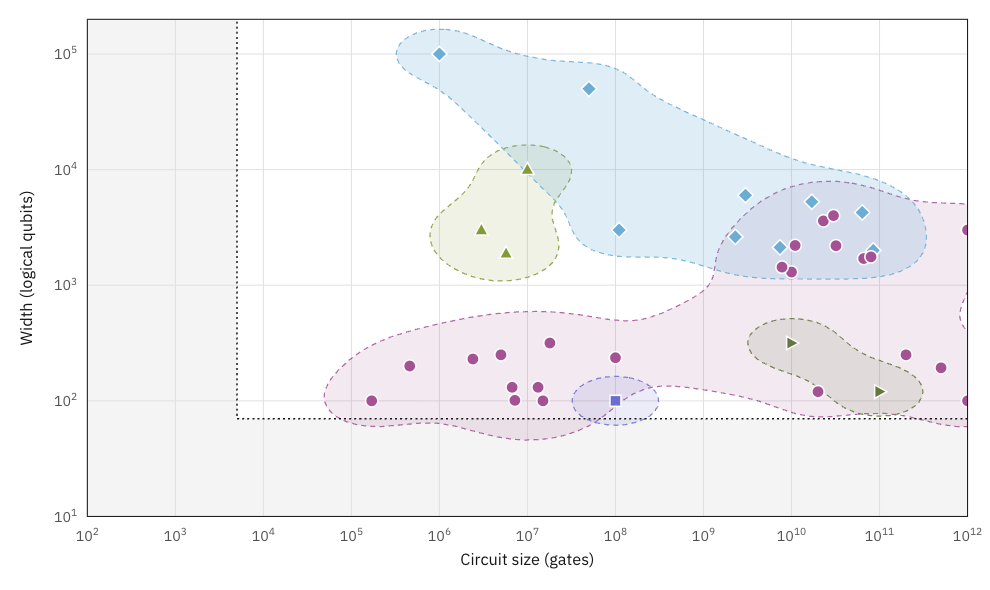
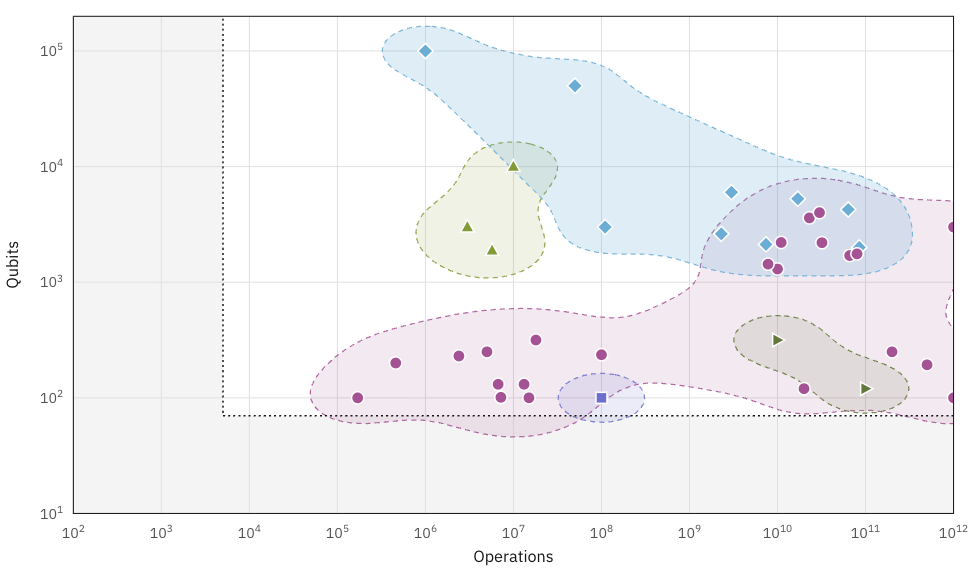
Label chart axes Qubits and Operations, update home preview

diff --git a/src/app/resource-estimates/AlgorithmSpace.tsx b/src/app/resource-estimates/AlgorithmSpace.tsx
@@ -201,7 +201,7 @@ export function AlgorithmSpace({ data }: { data: ChartData }) {
             viewBox={`0 0 ${W} ${H}`}
             className="w-full h-auto font-sans"
             role="group"
-            aria-label="Logical qubits against circuit size for published quantum algorithm resource estimates, grouped into clouds by algorithm area. Each point links to its paper; the table below lists the same data."
+            aria-label="Qubits against operations for published quantum algorithm resource estimates, grouped into clouds by algorithm area. Each point links to its paper; the table below lists the same data."
           >
             <defs>
               <clipPath id={clipId}>
@@ -253,7 +253,7 @@ export function AlgorithmSpace({ data }: { data: ChartData }) {
               ))}
             </g>
             <text x={M.left + PW / 2} y={H - 8} textAnchor="middle" fontSize={16} fill="#161616">
-              Circuit size (gates)
+              Operations
             </text>
             <text
               transform={`translate(18 ${M.top + PH / 2}) rotate(-90)`}
@@ -261,7 +261,7 @@ export function AlgorithmSpace({ data }: { data: ChartData }) {
               fontSize={16}
               fill="#161616"
             >
-              Width (logical qubits)
+              Qubits
             </text>
 
             <g clipPath={`url(#${clipId})`}>

diff --git a/src/app/_home/ResourceEstimatesSection.tsx b/src/app/_home/ResourceEstimatesSection.tsx
@@ -8,8 +8,8 @@ export function ResourceEstimatesSection() {
       <Image
         src="/resource-estimates-preview.png"
         alt="Chart of published quantum resource estimates by application area"
-        width={990}
-        height={590}
+        width={978}
+        height={571}
         className="h-auto w-full shadow-nav"
       />
       <div className="flex flex-col items-start gap-6">
